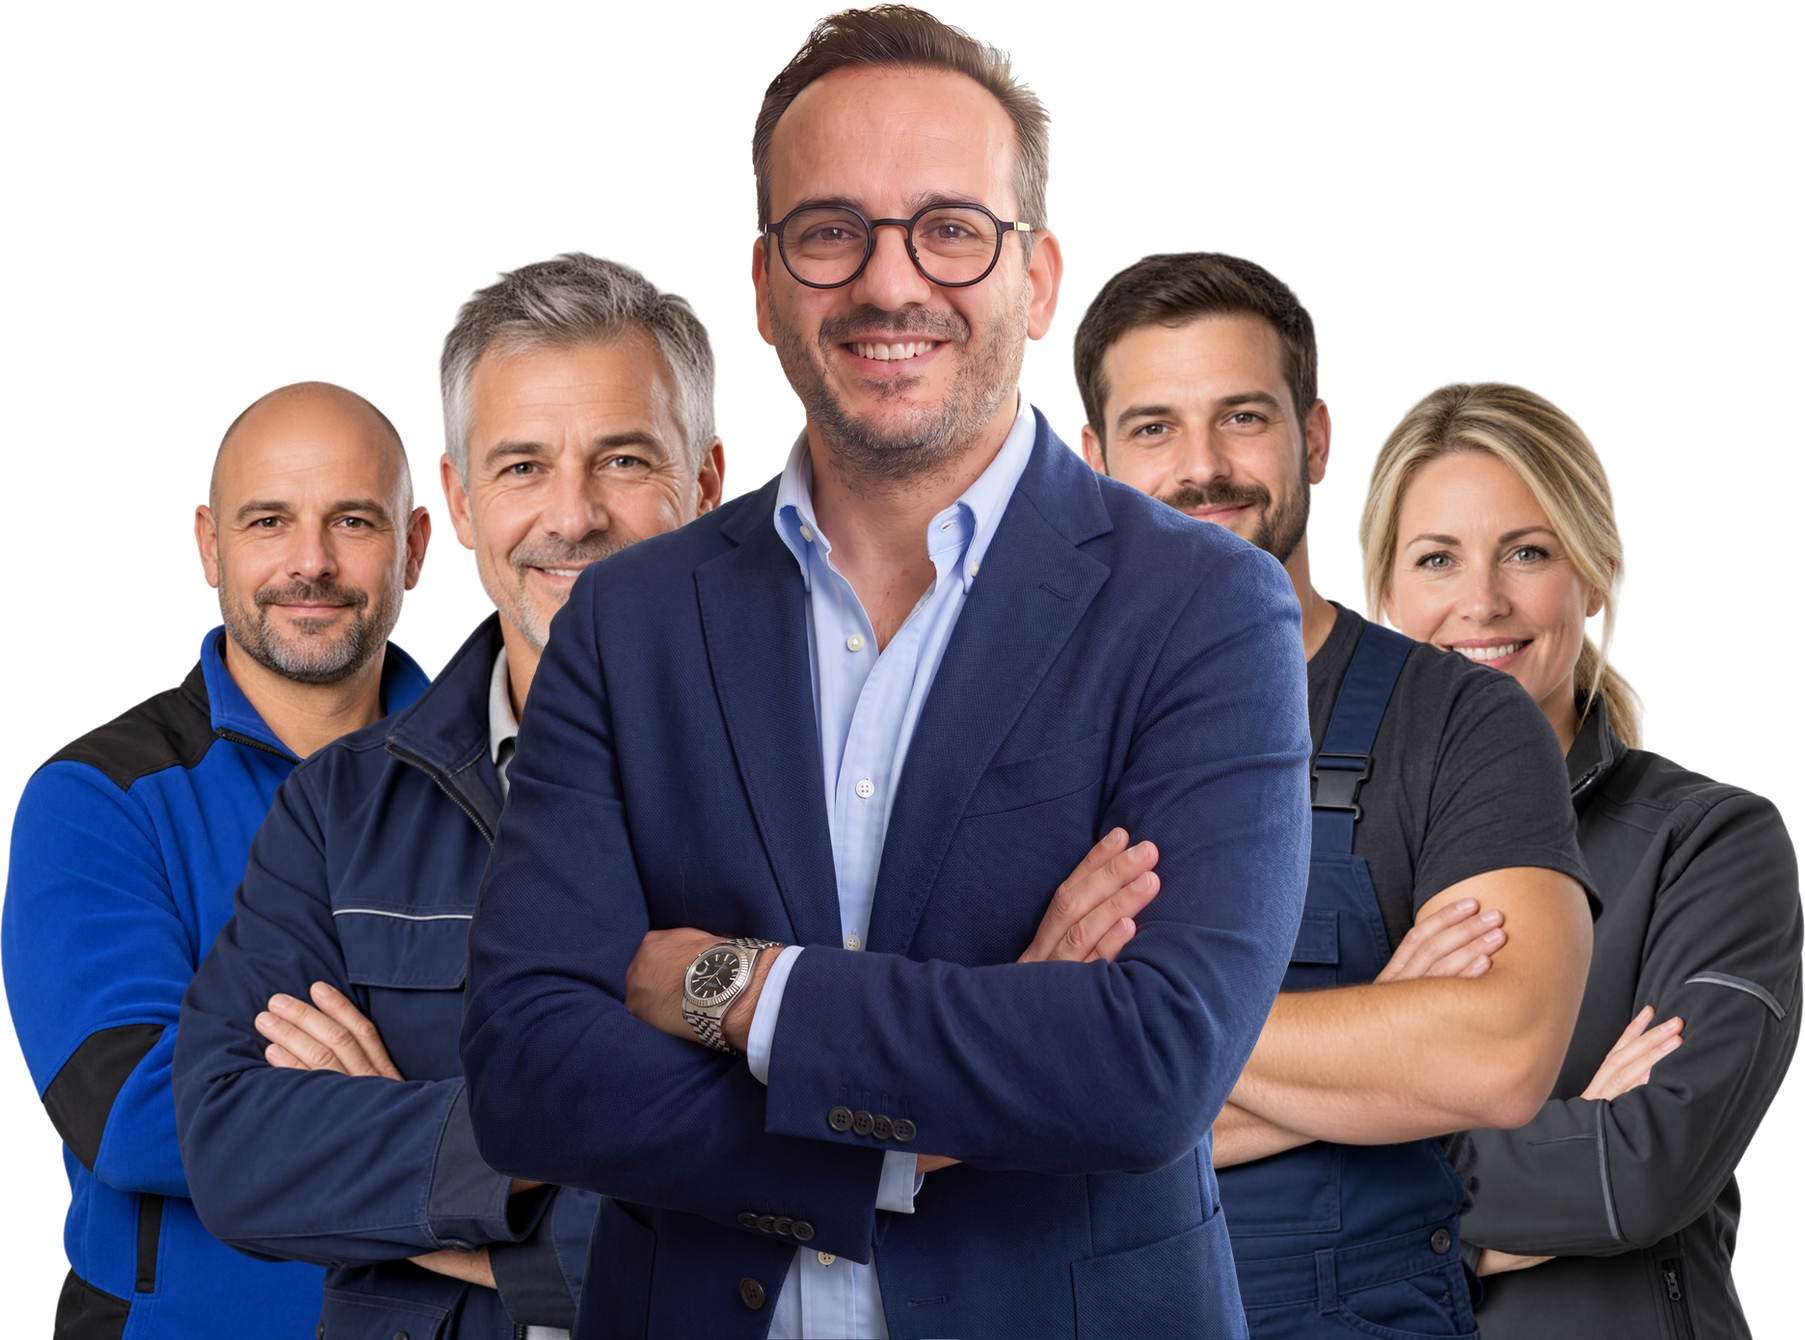
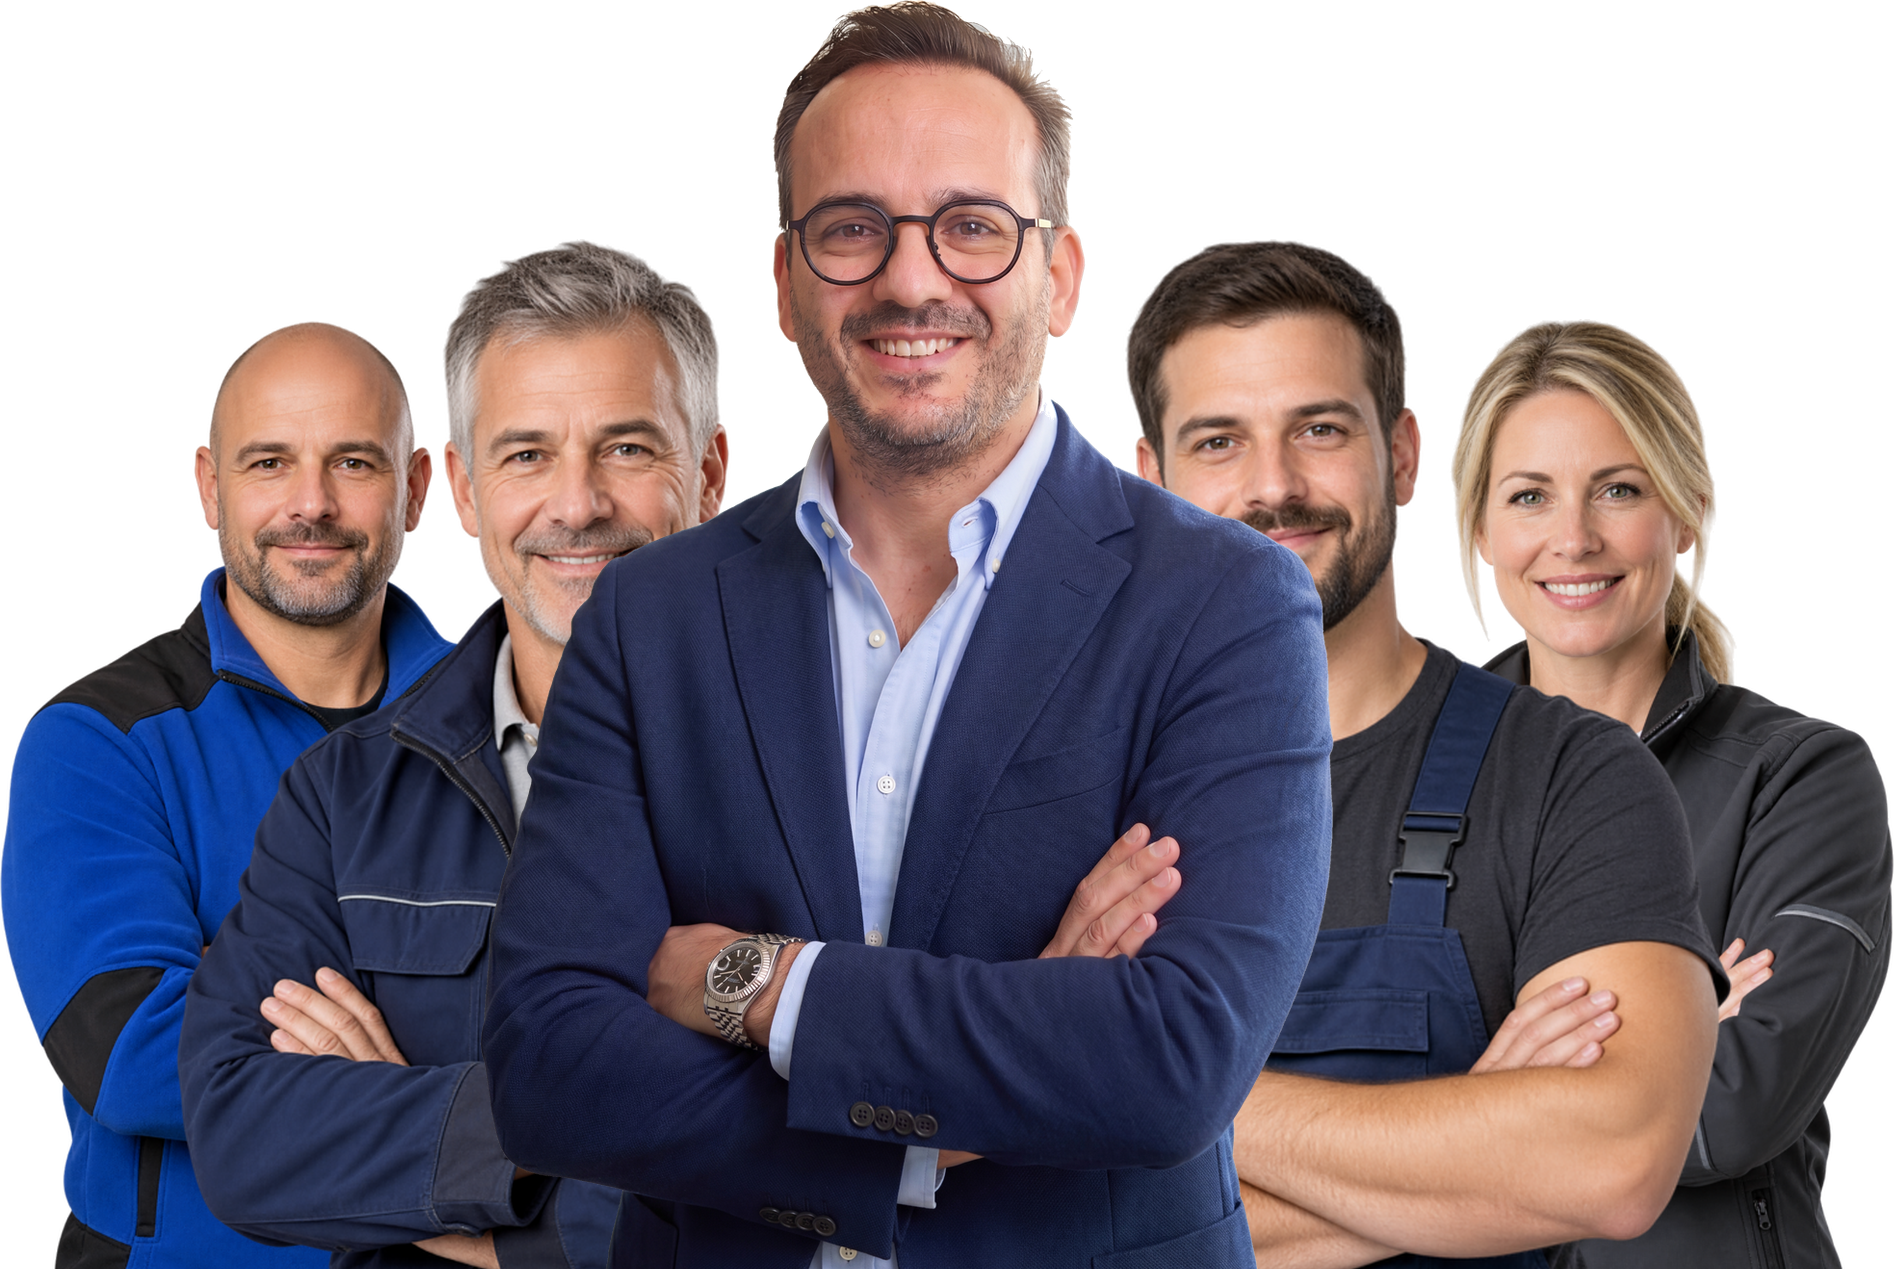
Hero-Gruppe: gleiche Proportionen, Gesichter frei (Feedback Antonia)
Personen werden jetzt über die gemessene Kopfbreite skaliert statt über
die Bildhöhe: Heizungsbauer rechts von Domenico so groß wie der
Sanitär-Meister links, äußere Reihe untereinander gleich. Platzierung
über die Kopfoberkante, äußere Personen etwas weiter außen und höher,
keine Schulter verdeckt mehr ein Gesicht. Unten an der kürzesten Figur
beschnitten. Skript bildquellen/hero-gruppe/zusammensetzen.py (v2),
alte Fassung als -v1 daneben.

Claude-Session: https://claude.ai/code/session_01HdHu9Ndc95cq22xCPqSDer

diff --git a/bildquellen/hero-gruppe/zusammensetzen.py b/bildquellen/hero-gruppe/zusammensetzen.py
@@ -1,35 +1,61 @@
+# Hero-Gruppe zusammensetzen (Version 2, 2.11.2026, Feedback Antonia):
+# Größen nicht mehr über die Bildhöhe, sondern über die gemessene Kopfbreite,
+# damit alle Personen derselben Reihe gleich groß wirken. Platzierung über die Kopfoberkante;
+# längere Körper laufen unten aus dem Bild (die Website blendet den unteren Rand ohnehin aus).
+# Außen stehende Personen etwas weiter außen und höher, damit keine Schulter ein Gesicht verdeckt.
 from PIL import Image, ImageEnhance
 import numpy as np
 from scipy import ndimage
-R='roh/'
+
 def sauber(p):
     im=Image.open(p).convert('RGBA'); a=np.asarray(im).copy()
     al=a[...,3].astype(int)
     lab,n=ndimage.label(al>40)
     if n>1:
         groes=ndimage.sum(np.ones_like(al),lab,range(1,n+1)); keep=1+int(np.argmax(groes))
-        maske=ndimage.binary_dilation(lab==keep,iterations=3)
-        al=np.where(maske,al,0)
+        al=np.where(ndimage.binary_dilation(lab==keep,iterations=3),al,0)
     al=np.where(al>=240,255,al); al=np.where(al<20,0,al)
     a[...,3]=al.astype(np.uint8)
     out=Image.fromarray(a,'RGBA'); return out.crop(out.getbbox())
-dom=Image.open('/mnt/user-data/attachments/7e399be2-5ad4-585c-8461-2d70cbc2ce37/037f7fc9-image.png').convert('RGBA')
-dom=dom.crop(dom.getbbox())
-leute={n:sauber(R+n+'.png') for n in ('sanitaer','heizung','inhaberin','klima-solar')}
-for n,i in leute.items(): print(n,i.size)
-W,H=2000,1400
+
+def kopf(im):
+    """Kopfoberkante und größte Kopfbreite im oberen Viertel der Silhouette."""
+    a=np.asarray(im)[...,3]>128
+    top=int(np.argmax(a.any(axis=1)))
+    best=0
+    for y in range(top,top+int(im.height*0.25)):
+        xs=np.where(a[y])[0]
+        if len(xs): best=max(best,xs[-1]-xs[0])
+    return top,best
+
+leute={n:sauber(n+'.png') for n in ('klima-solar','sanitaer','domenico-freigestellt','heizung','inhaberin')}
+W,H=2100,1340
+OX=60  # Rand links, damit niemand am Bildrand abgeschnitten wird
+unterkanten=[]
 can=Image.new('RGBA',(W,H),(0,0,0,0))
-def setze(img,hoehe,cx,hell=1.0):
-    s=hoehe/img.height; im=img.resize((round(img.width*s),hoehe),Image.LANCZOS)
+
+# (Name, Ziel-Kopfbreite in px, Kopfmitte x, Kopfoberkante y, Helligkeit)
+# Die Inhaberin hat offenes Haar, ihre gemessene Kopfbreite ist dadurch ~10 % größer.
+plan=[
+    ('klima-solar', 236, 345, 330, 0.95),
+    ('inhaberin',   258, 1615, 330, 0.95),
+    ('sanitaer',    282, 615, 250, 0.98),
+    ('heizung',     282, 1300, 250, 0.98),
+    ('domenico-freigestellt', 311, 955, 8, 1.0),
+]
+for name,kb,cx,ky,hell in plan:
+    img=leute[name]; top,breite=kopf(img)
+    s=kb/breite; im=img.resize((round(img.width*s),round(img.height*s)),Image.LANCZOS)
     if hell!=1.0:
         rgb=ImageEnhance.Brightness(im.convert('RGB')).enhance(hell); rgb.putalpha(im.getchannel('A')); im=rgb
-    can.alpha_composite(im,(round(cx-im.width/2),H-im.height))
-# hinten außen (kleiner), dann innen, dann Domenico vorn
-setze(leute['klima-solar'],960,400,0.95)
-setze(leute['inhaberin'],960,1540,0.95)
-setze(leute['sanitaer'],1090,645,0.98)
-setze(leute['heizung'],1090,1300,0.98)
-setze(dom,1340,950)
-can=can.crop(can.getbbox())
-print('gesamt',can.size)
-can.save('gruppe-voll.png')
+    # horizontale Kopfmitte in der Figur
+    a=np.asarray(im)[...,3]>128; t2,_=kopf(im)
+    zeile=np.where(a[t2+int(kb*0.45)])[0]; kopfmitte=(zeile[0]+zeile[-1])/2 if len(zeile) else im.width/2
+    x=round(cx-kopfmitte)+OX; y=round(ky-t2)
+    unten=y+im.height; unterkanten.append(unten)
+    print(f'{name:22s} skala={s:.3f} unterkante={unten} (Bild {H})')
+    can.alpha_composite(im,(x,y))
+# unten an der kürzesten Figur abschneiden, damit keine Körperkante sichtbar wird
+bb=can.getbbox(); can=can.crop((bb[0],bb[1],bb[2],min(min(unterkanten),H)))
+print('gesamt',can.size, 'Seitenverhältnis', round(can.width/can.height,3))
+can.save('gruppe-komplett.png')

diff --git a/bildquellen/hero-gruppe/zusammensetzen-v1.py b/bildquellen/hero-gruppe/zusammensetzen-v1.py
@@ -1,0 +1,35 @@
+from PIL import Image, ImageEnhance
+import numpy as np
+from scipy import ndimage
+R='roh/'
+def sauber(p):
+    im=Image.open(p).convert('RGBA'); a=np.asarray(im).copy()
+    al=a[...,3].astype(int)
+    lab,n=ndimage.label(al>40)
+    if n>1:
+        groes=ndimage.sum(np.ones_like(al),lab,range(1,n+1)); keep=1+int(np.argmax(groes))
+        maske=ndimage.binary_dilation(lab==keep,iterations=3)
+        al=np.where(maske,al,0)
+    al=np.where(al>=240,255,al); al=np.where(al<20,0,al)
+    a[...,3]=al.astype(np.uint8)
+    out=Image.fromarray(a,'RGBA'); return out.crop(out.getbbox())
+dom=Image.open('/mnt/user-data/attachments/7e399be2-5ad4-585c-8461-2d70cbc2ce37/037f7fc9-image.png').convert('RGBA')
+dom=dom.crop(dom.getbbox())
+leute={n:sauber(R+n+'.png') for n in ('sanitaer','heizung','inhaberin','klima-solar')}
+for n,i in leute.items(): print(n,i.size)
+W,H=2000,1400
+can=Image.new('RGBA',(W,H),(0,0,0,0))
+def setze(img,hoehe,cx,hell=1.0):
+    s=hoehe/img.height; im=img.resize((round(img.width*s),hoehe),Image.LANCZOS)
+    if hell!=1.0:
+        rgb=ImageEnhance.Brightness(im.convert('RGB')).enhance(hell); rgb.putalpha(im.getchannel('A')); im=rgb
+    can.alpha_composite(im,(round(cx-im.width/2),H-im.height))
+# hinten außen (kleiner), dann innen, dann Domenico vorn
+setze(leute['klima-solar'],960,400,0.95)
+setze(leute['inhaberin'],960,1540,0.95)
+setze(leute['sanitaer'],1090,645,0.98)
+setze(leute['heizung'],1090,1300,0.98)
+setze(dom,1340,950)
+can=can.crop(can.getbbox())
+print('gesamt',can.size)
+can.save('gruppe-voll.png')
